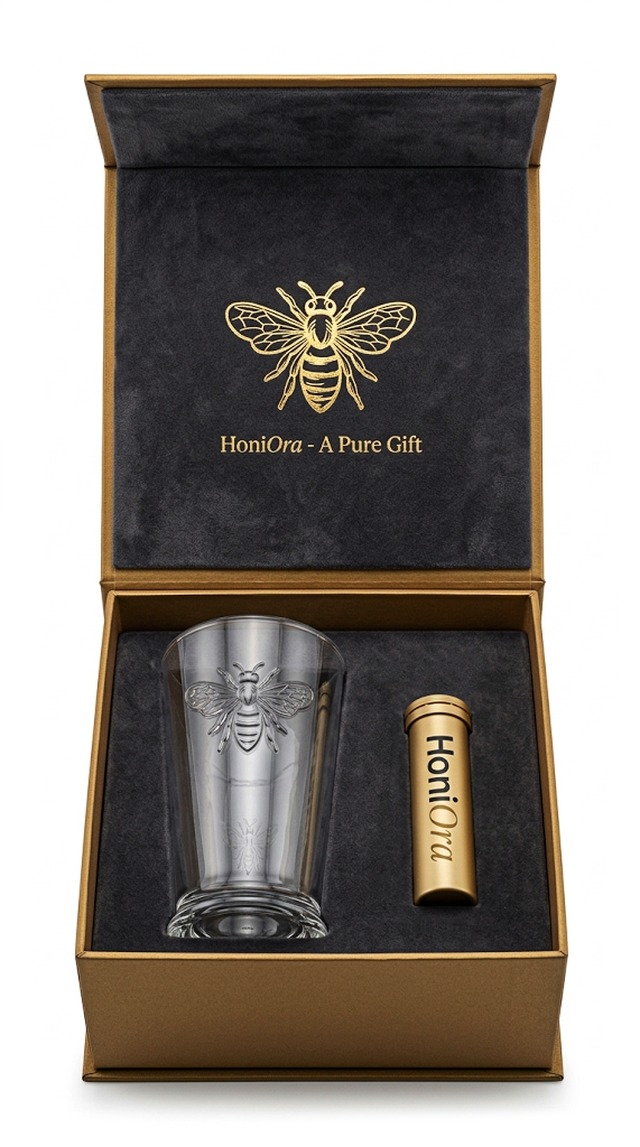
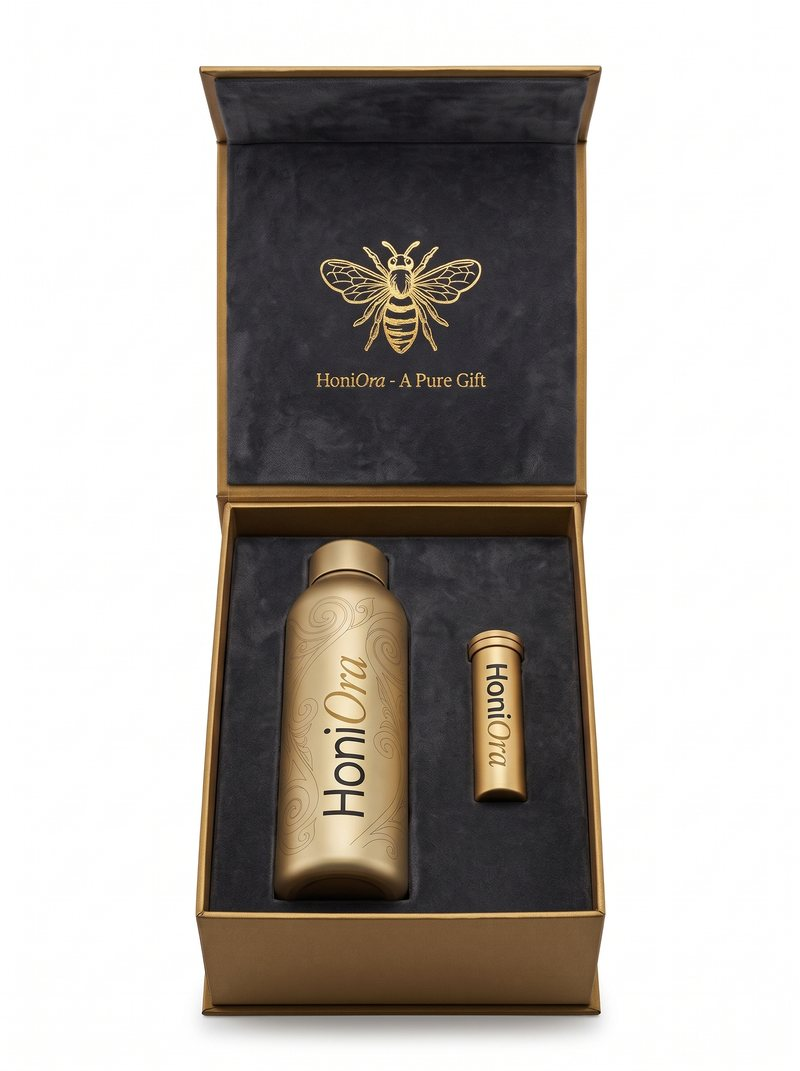
Add files via upload

diff --git a/index.html b/index.html
@@ -3139,10 +3139,10 @@ footer{background:var(--paper);border-top:1px solid var(--line);padding:70px 0 4
 <div class="lightbox gift-lightbox" id="giftLightbox" role="dialog" aria-modal="true" aria-label="Free Founders gift pack">
   <button type="button" class="lightbox-close" id="giftLightboxClose" aria-label="Close">&times;</button>
   <div class="gift-lightbox-panel">
-    <div class="gift-cap"><b>Founders Subscription</b><span>Enjoy your free limited edition<br>HONI<i>ORA</i> Founders Bee Tumbler &amp; Test Tube pack.</span></div>
+    <div class="gift-cap"><b>Founders Subscription</b><span>Enjoy your free limited edition<br>HONI<i>ORA</i> Founders Stainless Steel 500ML Bottle &amp; Test Tube pack.</span></div>
     <picture>
       <source media="(max-width:1000px)" srcset="founders-gift-pack-lite.jpg">
-      <img width="640" height="1147" src="founders-gift-pack.jpg" alt="HONIORA Founders gift pack: a gold gift box open to reveal a bee-embossed glass tumbler and a gold HoniOra test tube" class="gift-lightbox-img" loading="lazy">
+      <img width="800" height="1071" src="founders-gift-pack.jpg" alt="HONIORA Founders gift pack: an open gold gift box with a bee on the lid, holding a gold HoniOra stainless steel bottle and a gold HoniOra test tube" class="gift-lightbox-img" loading="lazy">
     </picture>
   </div>
 </div>
